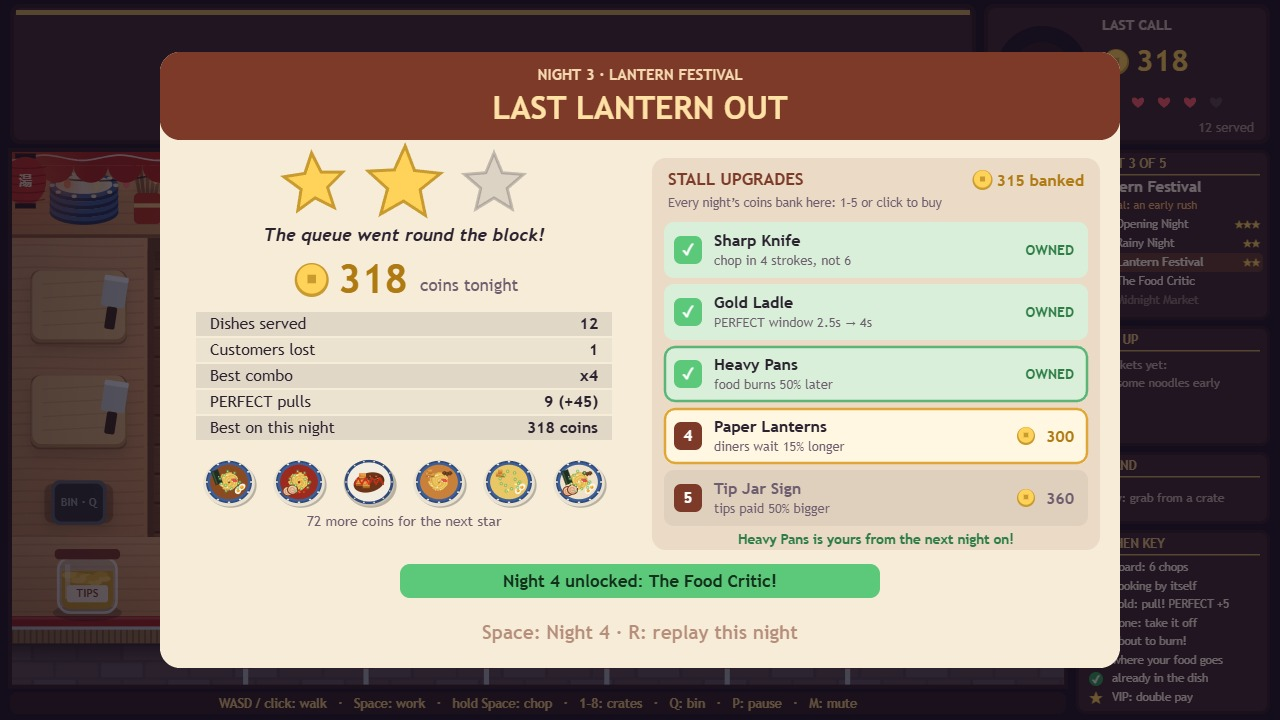
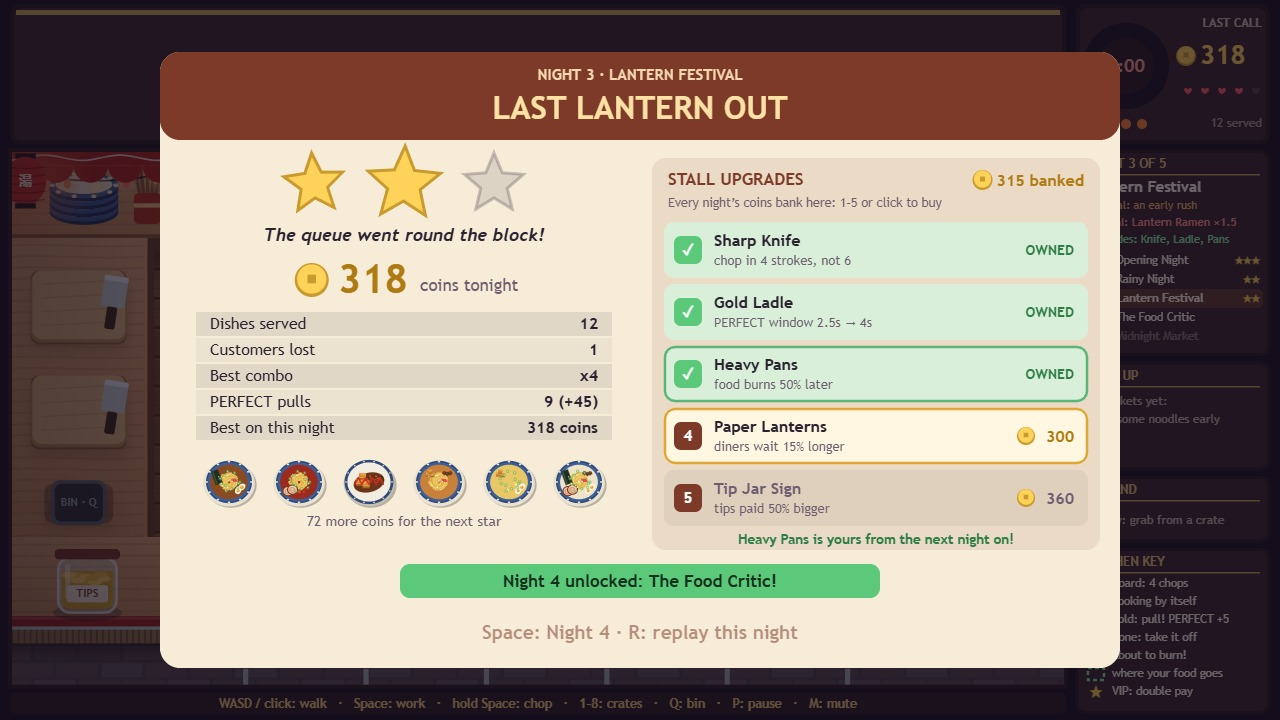
Cover polish and specials: heaped crates, golden stock, more steam, aligned top row, tonight's special, upgrades in the sidebar, livelier diners

diff --git a/game/src/render/hud-view.js b/game/src/render/hud-view.js
@@ -2,11 +2,11 @@
 // ingredients and a patience bar that turns from green to red), the shift clock, the takings,
 // the hearts and the combo.
 import { FONT, PALETTE, SHIFT } from '../config.js';
-import { PHASES, phaseIndex, secondsLeft, shiftProgress } from '../shift.js';
+import { PHASES, phaseIndex, priceOf, secondsLeft, shiftProgress } from '../shift.js';
 import { drawDish, drawIngredientIcon } from './food-art.js';
 
 const TAU = Math.PI * 2;
-export const TICKET = { width: 178, height: 128, gap: 10, left: 24, top: 10 };
+export const TICKET = { width: 196, height: 128, gap: 10, left: 24, top: 10 };
 
 function text(ctx, value, x, y, size, colour, align = 'center', weight = 'bold') {
   ctx.font = `${weight} ${size}px ${FONT}`;
@@ -97,7 +97,16 @@ function drawTicket(ctx, ticket, x, y, time, have) {
   roundRect(ctx, 8, TICKET.height - 20, TICKET.width - 16, 12, 6, 'rgba(43,34,48,0.18)');
   roundRect(ctx, 8, TICKET.height - 20, Math.max(6, (TICKET.width - 16) * fraction), 12, 6, patienceColour(fraction));
   text(ctx, `${Math.ceil(ticket.left)}s`, TICKET.width - 12, TICKET.height - 33, 12, urgent ? PALETTE.bad : PALETTE.inkSoft, 'right');
-  text(ctx, `${ticket.recipe.price * (ticket.vip ? 2 : 1)}c`, 12, TICKET.height - 33, 12, ticket.vip ? '#b8860b' : PALETTE.inkSoft, 'left');
+  text(ctx, `${priceOf(ticket)}c`, 12, TICKET.height - 33, 12, ticket.vip || ticket.special ? '#b8860b' : PALETTE.inkSoft, 'left');
+  if (ticket.special) {
+    // Tonight's special: a red ribbon across the corner.
+    ctx.save();
+    ctx.translate(TICKET.width - 22, 40);
+    ctx.rotate(0.5);
+    roundRect(ctx, -34, -9, 68, 18, 3, '#c9372f');
+    text(ctx, 'SPECIAL', 0, 1, 11, '#fff3d6');
+    ctx.restore();
+  }
   if (ticket.leaving > 0) {
     ctx.save();
     ctx.translate(TICKET.width / 2, 70);
@@ -115,15 +124,15 @@ function drawTicket(ctx, ticket, x, y, time, have) {
 
 /** The rail and its tickets; `progress` maps a ticket id to the ingredients already in its dish. */
 export function drawOrderBoard(ctx, orders, time, progress) {
-  roundRect(ctx, 10, 4, 966, 140, 10, '#2b1d22');
-  roundRect(ctx, 14, 8, 958, 132, 8, '#3a272d');
+  roundRect(ctx, 10, 4, 1056, 140, 10, '#2b1d22');
+  roundRect(ctx, 14, 8, 1048, 132, 8, '#3a272d');
   ctx.fillStyle = '#c8a95a';
-  ctx.fillRect(16, 10, 954, 5);
-  if (orders.tickets.length === 0) text(ctx, 'Waiting for the first customers…', 492, 76, 18, 'rgba(255,240,220,0.5)', 'center', 'normal');
+  ctx.fillRect(16, 10, 1044, 5);
+  if (orders.tickets.length === 0) text(ctx, 'Waiting for the first customers…', 538, 76, 18, 'rgba(255,240,220,0.5)', 'center', 'normal');
   // Tickets stay on the board: one sliding in or out never spills over the service panel.
   ctx.save();
   ctx.beginPath();
-  ctx.rect(14, 0, 958, 144);
+  ctx.rect(14, 0, 1048, 144);
   ctx.clip();
   orders.tickets.forEach((ticket, index) => {
     const slot = ticketSlot(index);
@@ -156,45 +165,45 @@ export function drawCoin(ctx, x, y, r) {
 
 /** The clock, phase, takings, hearts and combo on the panel to the right of the order board. */
 export function drawServicePanel(ctx, shift, time, coinPulse) {
-  roundRect(ctx, 984, 4, 286, 140, 10, '#2b1d22');
-  roundRect(ctx, 988, 8, 278, 132, 8, '#3a272d');
+  roundRect(ctx, 1076, 4, 194, 140, 10, '#2b1d22');
+  roundRect(ctx, 1080, 8, 186, 132, 8, '#3a272d');
   // The dial: a lantern-moon that empties as the night runs out.
-  const cx = 1042;
-  const cy = 72;
+  const cx = 1126;
+  const cy = 66;
   const left = 1 - shiftProgress(shift);
   const lowTime = secondsLeft(shift) <= 30;
   ctx.beginPath();
-  ctx.arc(cx, cy, 46, 0, TAU);
+  ctx.arc(cx, cy, 43, 0, TAU);
   ctx.fillStyle = '#1b1426';
   ctx.fill();
   ctx.beginPath();
   ctx.moveTo(cx, cy);
-  ctx.arc(cx, cy, 42, -Math.PI / 2, -Math.PI / 2 + TAU * left);
+  ctx.arc(cx, cy, 39, -Math.PI / 2, -Math.PI / 2 + TAU * left);
   ctx.closePath();
   ctx.fillStyle = lowTime && Math.floor(time * 4) % 2 ? PALETTE.bad : PALETTE.lantern;
   ctx.fill();
   ctx.beginPath();
-  ctx.arc(cx, cy, 30, 0, TAU);
+  ctx.arc(cx, cy, 28, 0, TAU);
   ctx.fillStyle = '#2b1d22';
   ctx.fill();
   const seconds = Math.ceil(secondsLeft(shift));
-  text(ctx, `${Math.floor(seconds / 60)}:${String(seconds % 60).padStart(2, '0')}`, cx, cy + 1, 20, lowTime ? '#ff9b8f' : PALETTE.text);
+  text(ctx, `${Math.floor(seconds / 60)}:${String(seconds % 60).padStart(2, '0')}`, cx, cy + 1, 18, lowTime ? '#ff9b8f' : PALETTE.text);
   // Phase pips under the dial.
   PHASES.forEach((phase, i) => {
     ctx.beginPath();
-    ctx.arc(cx - 16 + i * 16, cy + 56, 5, 0, TAU);
+    ctx.arc(cx - 16 + i * 16, cy + 58, 5, 0, TAU);
     ctx.fillStyle = i <= phaseIndex(shift) ? PALETTE.lantern : 'rgba(255,255,255,0.15)';
     ctx.fill();
   });
   const phase = PHASES[phaseIndex(shift)].name;
-  text(ctx, phase.toUpperCase(), 1102, 26, 14, phaseIndex(shift) === 1 ? '#ffb070' : 'rgba(255,240,220,0.75)', 'left');
+  text(ctx, phase.toUpperCase(), 1262, 24, 12, phaseIndex(shift) === 1 ? '#ffb070' : 'rgba(255,240,220,0.75)', 'right');
   // Takings.
   const pulse = 1 + coinPulse * 0.25;
-  drawCoin(ctx, 1116, 62, 13 * pulse);
-  text(ctx, String(shift.coins), 1136, 63, 30 * pulse, PALETTE.coin, 'left');
-  for (let i = 0; i < SHIFT.hearts; i += 1) drawHeart(ctx, 1112 + i * 26, 104, 11, i < shift.hearts);
-  if (shift.combo > 1) text(ctx, `COMBO x${shift.combo}`, 1254, 128, 14, '#8ff0a4', 'right');
-  else text(ctx, `${shift.served} served`, 1254, 128, 13, 'rgba(255,240,220,0.55)', 'right', 'normal');
+  drawCoin(ctx, 1186, 56, 10 * pulse);
+  text(ctx, String(shift.coins), 1200, 57, 26 * pulse, PALETTE.coin, 'left');
+  for (let i = 0; i < SHIFT.hearts; i += 1) drawHeart(ctx, 1188 + i * 17, 92, 7, i < shift.hearts);
+  if (shift.combo > 1) text(ctx, `COMBO x${shift.combo}`, 1262, 124, 13, '#8ff0a4', 'right');
+  else text(ctx, `${shift.served} served`, 1262, 124, 12, 'rgba(255,240,220,0.55)', 'right', 'normal');
 }
 
 /** Big centred banners: the phase changes, the last thirty seconds. */

diff --git a/game/src/render/sidebar-view.js b/game/src/render/sidebar-view.js
@@ -4,8 +4,8 @@
 import { FONT, PALETTE, SCORE } from '../config.js';
 import { NIGHTS, twistLine } from '../nights.js';
 import { heldTag, nextUp, prepWords } from '../hints.js';
-import { INGREDIENTS } from '../recipes.js';
-import { chopStrokes } from '../perks.js';
+import { INGREDIENTS, RECIPE_BY_ID } from '../recipes.js';
+import { chopStrokes, PERKS } from '../perks.js';
 import { drawDish, drawIngredient, drawIngredientIcon } from './food-art.js';
 import { SIDEBAR } from './layout.js';
 
@@ -39,10 +39,13 @@ function panel(ctx, y, h, title) {
 
 function drawNights(ctx, shift, progress) {
   const { x, w } = SIDEBAR;
-  let y = panel(ctx, SIDEBAR.y, 170, `NIGHT ${shift.night.id} OF ${NIGHTS.length}`);
+  let y = panel(ctx, SIDEBAR.y, 206, `NIGHT ${shift.night.id} OF ${NIGHTS.length}`);
   text(ctx, shift.night.name, x + 12, y + 6, 15, PALETTE.text);
   text(ctx, twistLine(shift.night), x + 12, y + 24, 11, '#ffb36b', 'left', 'normal');
-  y += 42;
+  text(ctx, `Special: ${RECIPE_BY_ID[shift.night.special].name} ×1.5`, x + 12, y + 41, 11, '#ff8f84', 'left');
+  const owned = PERKS.filter((perk) => (progress.perks ?? []).includes(perk.id)).map((perk) => perk.name.split(' ').pop());
+  text(ctx, owned.length > 0 ? `Upgrades: ${owned.join(', ')}` : 'Upgrades: none yet', x + 12, y + 58, 11, owned.length > 0 ? '#8ff0a4' : 'rgba(255,240,220,0.45)', 'left', 'normal');
+  y += 78;
   for (const night of NIGHTS) {
     const current = night.id === shift.night.id;
     const done = (progress.stars[night.id] ?? 0) > 0;
@@ -60,7 +63,7 @@ function drawNights(ctx, shift, progress) {
 /** The most urgent ticket, and each thing its dish still needs with how to prep it. */
 function drawNextUp(ctx, world) {
   const { x, w } = SIDEBAR;
-  let y = panel(ctx, SIDEBAR.y + 176, 120, 'NEXT UP');
+  let y = panel(ctx, SIDEBAR.y + 212, 108, 'NEXT UP');
   const next = nextUp(world);
   if (next === null) {
     text(ctx, 'No tickets yet:', x + 12, y + 8, 12, 'rgba(255,240,220,0.7)', 'left', 'normal');
@@ -86,7 +89,7 @@ function drawNextUp(ctx, world) {
 /** What the chef carries, and what it needs next (or which dish it is on its way to be). */
 function drawHands(ctx, world) {
   const { x } = SIDEBAR;
-  const y = panel(ctx, SIDEBAR.y + 302, 72, 'IN HAND') + 15;
+  const y = panel(ctx, SIDEBAR.y + 326, 66, 'IN HAND') + 13;
   const held = world.chef.held;
   if (held === null) {
     text(ctx, 'Empty: grab from a crate', x + 12, y, 12, 'rgba(255,240,220,0.7)', 'left', 'normal');
@@ -133,7 +136,7 @@ function keyIcon(ctx, kind, x, y) {
 
 function drawKey(ctx) {
   const { x } = SIDEBAR;
-  let y = panel(ctx, SIDEBAR.y + 380, SIDEBAR.h - 380, 'KITCHEN KEY') + 2;
+  let y = panel(ctx, SIDEBAR.y + 398, SIDEBAR.h - 398, 'KITCHEN KEY');
   const rows = [
     ['pips', `board: ${chopStrokes()} chops`],
     ['ring', 'cooking by itself'],
@@ -141,13 +144,12 @@ function drawKey(ctx) {
     ['amber', 'done: take it off'],
     ['red', 'about to burn!'],
     ['dash', 'where your food goes'],
-    ['check', 'already in the dish'],
     ['vip', 'VIP: double pay'],
   ];
   for (const [kind, words] of rows) {
     keyIcon(ctx, kind, x + 20, y + 4);
     text(ctx, words, x + 36, y + 4, 11.5, PALETTE.text, 'left', 'normal');
-    y += 18.5;
+    y += 18;
   }
 }
 

diff --git a/game/src/render/kitchen-view.js b/game/src/render/kitchen-view.js
@@ -243,9 +243,15 @@ function drawCrate(ctx, s, time) {
     roundRect(ctx, s.x + 4, s.y + 4, s.w - 8, s.h - 8, 6, '#7b4f2c');
     roundRect(ctx, s.x + 9, s.y + 9, s.w - 18, s.h - 18, 4, '#4d2f1a');
     const raw = { kind: s.kind, done: 0, burnt: false };
-    drawIngredient(ctx, raw, s.cx - 16, s.cy - 2, 44);
-    drawIngredient(ctx, raw, s.cx + 16, s.cy + 4, 44);
-    drawIngredient(ctx, raw, s.cx, s.cy - 10, 44);
+    // Heaped full: a back row and a front row, the front a touch bigger.
+    for (const [dx, dy, size] of [[-24, -12, 42], [0, -14, 42], [24, -12, 42], [-14, 2, 48], [14, 4, 48]]) {
+      drawIngredient(ctx, raw, s.cx + dx, s.cy + dy, size);
+    }
+    const shine = ctx.createLinearGradient(0, s.y + 9, 0, s.y + 40);
+    shine.addColorStop(0, 'rgba(255,240,210,0.22)');
+    shine.addColorStop(1, 'rgba(255,240,210,0)');
+    ctx.fillStyle = shine;
+    ctx.fillRect(s.x + 9, s.y + 9, s.w - 18, 31);
     ctx.fillStyle = '#9a6a3e';
     ctx.fillRect(s.x + 4, s.y + s.h - 16, s.w - 8, 8);
   }
@@ -324,7 +330,15 @@ function drawCooker(ctx, s, time) {
     ctx.fill();
     ctx.beginPath();
     ctx.arc(s.cx, s.cy, 31, 0, TAU);
-    ctx.fillStyle = s.item !== null && s.item.burnt ? '#5d5a4a' : '#7fa7b8';
+    // Stock at a rolling boil: golden and glowing at the middle (grey once something burns in it).
+    if (s.item !== null && s.item.burnt) ctx.fillStyle = '#5d5a4a';
+    else {
+      const stock = ctx.createRadialGradient(s.cx - 6, s.cy - 6, 4, s.cx, s.cy, 31);
+      stock.addColorStop(0, s.item !== null ? '#ffd889' : '#cfe0e6');
+      stock.addColorStop(0.6, s.item !== null ? '#e3a145' : '#9fbfcc');
+      stock.addColorStop(1, s.item !== null ? '#b8732a' : '#7fa7b8');
+      ctx.fillStyle = stock;
+    }
     ctx.fill();
     roundRect(ctx, s.cx + 34, s.cy - 5, 26, 10, 4, '#3b2a20');
     if (s.item !== null) {
@@ -337,7 +351,8 @@ function drawCooker(ctx, s, time) {
         ctx.stroke();
       }
       drawIngredient(ctx, s.item, s.cx, s.cy, 46, time);
-      drawSteam(ctx, s.cx, s.cy - 16, 20, time + s.cy);
+      drawSteam(ctx, s.cx, s.cy - 16, 26, time + s.cy);
+      drawSteam(ctx, s.cx + 14, s.cy - 10, 18, time * 1.3 + s.cy + 2);
     }
   } else {
     roundRect(ctx, s.x + 8, s.y + 6, s.w - 16, s.h - 12, 8, '#1f1d1f');

diff --git a/game/src/shots.js b/game/src/shots.js
@@ -72,6 +72,7 @@ function startCooking(world, kind, id, seconds, before = []) {
 /** Clip a ticket with `fraction` of its patience left. */
 function ticket(world, id, fraction, vip = false) {
   const t = addTicket(world.orders, RECIPE_BY_ID[id], patienceScale(world.shift), vip);
+  t.special = id === world.shift.night.special;
   t.left = t.patience * fraction;
   t.age = 3;
   return t;
@@ -127,7 +128,7 @@ function stageService(world, fx) {
     p.x += p.vx * 0.12;
     p.y += p.vy * 0.12;
   }
-  return { screen: SCREEN_PLAY, time: 12.3, servedDishes: [], progress: MIDWAY };
+  return { screen: SCREEN_PLAY, time: 12.3, servedDishes: [], progress: { ...MIDWAY, perks: ['ladle', 'pans'] } };
 }
 
 /** Last Call on Midnight Market: big orders, a pot about to boil over, a Midnight Feast run to the pass. */
@@ -156,9 +157,22 @@ function stageLastCall(world, fx) {
   ticket(world, 'feast', 0.22);
   ticket(world, 'moon', 0.41);
   ticket(world, 'grove', 0.63);
-  ticket(world, 'ember', 0.8);
+  // An Ember Noodles just went out: its ticket lifts away and its diner beams.
+  const served = ticket(world, 'ember', 0.8);
+  served.served = true;
+  served.leaving = 0.25;
   ticket(world, 'feast', 0.97);
-  return { screen: SCREEN_PLAY, time: 31.7, servedDishes: [], progress: { unlocked: 5, best: { ...MIDWAY.best, 4: 342 }, stars: { ...MIDWAY.stars, 4: 2 } } };
+  world.events.push({ type: 'serve', x: 948, y: 650, earned: 61, tip: 13, bonus: 16, combo: 5, contents: RECIPE_BY_ID.ember.items });
+  applyEvents(fx, world.events, world.orders);
+  world.events.length = 0;
+  fx.floaters.forEach((f) => { f.age = 0.3; });
+  for (const p of fx.particles) {
+    p.age = 0.15;
+    p.x += p.vx * 0.15;
+    p.y += p.vy * 0.15;
+  }
+  const progress = { unlocked: 5, best: { ...MIDWAY.best, 4: 342 }, stars: { ...MIDWAY.stars, 4: 2 }, perks: ['knife', 'ladle', 'pans'] };
+  return { screen: SCREEN_PLAY, time: 31.7, servedDishes: [], progress };
 }
 
 /** The end of the Lantern Festival: a strong two-star night that opens the critic's night. */

diff --git a/game/src/nights.js b/game/src/nights.js
@@ -10,27 +10,27 @@ export const NIGHTS = [
   {
     id: 1, name: 'Opening Night', blurb: 'Two dishes, a gentle crowd: learn the stall.',
     seconds: 180, menu: ['lantern', 'ember'], late: [], lateAt: 1,
-    spawnStart: 30, spawnEnd: 19, patience: 1.3, twist: null, stars: [90, 210, 320],
+    spawnStart: 30, spawnEnd: 19, patience: 1.3, special: 'ember', twist: null, stars: [90, 210, 320],
   },
   {
     id: 2, name: 'Rainy Night', blurb: 'Fewer customers, but they all want soup.',
     seconds: 200, menu: ['lantern', 'grove', 'moon'], late: ['ember'], lateAt: 0.5,
-    spawnStart: 30, spawnEnd: 18, patience: 1.45, twist: TWIST_RAIN, stars: [110, 250, 370],
+    spawnStart: 30, spawnEnd: 18, patience: 1.45, special: 'grove', twist: TWIST_RAIN, stars: [110, 250, 370],
   },
   {
     id: 3, name: 'Lantern Festival', blurb: 'The street fills up: a long, loud rush.',
     seconds: 240, menu: ['lantern', 'ember', 'grove'], late: ['griddle', 'moon'], lateAt: 0.3,
-    spawnStart: 25, spawnEnd: 11.5, patience: 1.12, twist: TWIST_FESTIVAL, stars: [120, 260, 390],
+    spawnStart: 25, spawnEnd: 11.5, patience: 1.12, special: 'lantern', twist: TWIST_FESTIVAL, stars: [120, 260, 390],
   },
   {
     id: 4, name: 'The Food Critic', blurb: 'Gold VIP tickets pay double, and wait half as long.',
     seconds: 240, menu: ['lantern', 'ember', 'grove', 'griddle'], late: ['moon', 'feast'], lateAt: 0.45,
-    spawnStart: 26, spawnEnd: 12.5, patience: 1.15, twist: TWIST_CRITIC, stars: [130, 300, 440],
+    spawnStart: 26, spawnEnd: 12.5, patience: 1.15, special: 'griddle', twist: TWIST_CRITIC, stars: [130, 300, 440],
   },
   {
     id: 5, name: 'Midnight Market', blurb: 'Every dish, the fastest crowd. Good luck.',
     seconds: 240, menu: ['lantern', 'ember', 'grove', 'griddle', 'moon'], late: ['feast'], lateAt: 0.25,
-    spawnStart: 21, spawnEnd: 10, patience: 1.02, twist: null, stars: [130, 270, 400],
+    spawnStart: 21, spawnEnd: 10, patience: 1.02, special: 'feast', twist: null, stars: [130, 270, 400],
   },
 ];
 

diff --git a/game/src/render/customers-view.js b/game/src/render/customers-view.js
@@ -106,10 +106,32 @@ function drawDiner(ctx, x, ticket, mood, t, time) {
     const puff = (time * 1.5 + id) % 1;
     ellipse(ctx, -10, -40 - puff * 16, 5 + puff * 4, 4 + puff * 3, `rgba(255,255,255,${0.5 * (1 - puff)})`);
   } else if (mood === 'happy') {
-    ctx.font = 'bold 20px sans-serif';
+    // A big heart that pops up and floats, and a sparkle either side.
+    const rise = Math.min(1, t * 2);
+    ctx.font = `bold ${Math.round(18 + 16 * rise)}px sans-serif`;
     ctx.textAlign = 'center';
-    ctx.fillStyle = '#ff7a8a';
-    ctx.fillText('♥', 16, -40 - (time * 30 % 10));
+    ctx.lineWidth = 4;
+    ctx.strokeStyle = 'rgba(60,20,30,0.6)';
+    ctx.strokeText('♥', -30, -14 - rise * 8);
+    ctx.fillStyle = '#ff5f7a';
+    ctx.fillText('♥', -30, -14 - rise * 8);
+    ctx.fillStyle = '#ffe9a8';
+    ctx.font = 'bold 14px sans-serif';
+    ctx.fillText('✦', -52, -24 - rise * 6);
+    ctx.fillText('✦', -10, -30 - rise * 8);
+  } else if (mood === 'leaving') {
+    // A storm cloud over a diner who gave up.
+    ellipse(ctx, 34, -30, 16, 9, 'rgba(70,70,84,0.9)');
+    ellipse(ctx, 25, -26, 10, 7, 'rgba(70,70,84,0.9)');
+    ellipse(ctx, 44, -26, 10, 7, 'rgba(70,70,84,0.9)');
+    ctx.strokeStyle = '#ffd25a';
+    ctx.lineWidth = 2.5;
+    ctx.beginPath();
+    ctx.moveTo(36, -21);
+    ctx.lineTo(30, -12);
+    ctx.lineTo(37, -12);
+    ctx.lineTo(31, -3);
+    ctx.stroke();
   }
   ctx.restore();
 }

diff --git a/game/src/shift.js b/game/src/shift.js
@@ -94,13 +94,18 @@ export function rollVip(shift, random) {
   return shift.night.twist === TWIST_CRITIC && shift.time > 20 && random() < 0.22;
 }
 
+/** A ticket's price: doubled for a VIP, half again for tonight's special. */
+export function priceOf(ticket) {
+  return Math.round(ticket.recipe.price * (ticket.vip ? 2 : 1) * (ticket.special ? 1.5 : 1));
+}
+
 /** Pay for a served ticket: price (doubled for a VIP), a tip for speed and the combo bonus. */
 export function payForServe(shift, ticket) {
   const freshness = ticket.left / ticket.patience;
   if (freshness >= 0.5) shift.combo = Math.min(SCORE.comboCap, shift.combo + 1);
   else shift.combo = 0;
   shift.bestCombo = Math.max(shift.bestCombo, shift.combo);
-  const price = ticket.recipe.price * (ticket.vip ? 2 : 1);
+  const price = priceOf(ticket);
   const tip = Math.round(price * tipShare() * freshness);
   const bonus = shift.combo > 1 ? (shift.combo - 1) * SCORE.comboBonus : 0;
   const earned = price + tip + bonus;

diff --git a/game/src/world.js b/game/src/world.js
@@ -106,6 +106,7 @@ export function createWorld(random, nightId = 1) {
         const recipe = chooseRecipe(shift, world.random, world.lastRecipe);
         world.lastRecipe = recipe.id;
         const ticket = addTicket(world.orders, recipe, patienceScale(shift), rollVip(shift, world.random));
+        ticket.special = recipe.id === shift.night.special;
         world.events.push({ type: 'ticket', ticket: ticket.id, recipe: recipe.id, vip: ticket.vip, x: 0, y: 0 });
       }
       shift.nextTicket = ticketInterval(shift) * (0.85 + world.random() * 0.3);

diff --git a/game/src/main.js b/game/src/main.js
@@ -73,6 +73,8 @@ function nightCardAt(x, y) {
 
 function runShot(name) {
   const scene = stageShot(name, world, fx);
+  // The scene is staged by the base rules; it is drawn with the upgrades its campaign owns.
+  usePerks(scene.progress?.perks ?? []);
   let painted = 0;
   function paint() {
     renderer.draw(world, scene.screen, { fx, time: scene.time, hover: null, servedDishes: scene.servedDishes, hints: true, progress: scene.progress, selected: scene.selected, outcome: scene.outcome });

diff --git a/README.md b/README.md
@@ -23,6 +23,7 @@ Tickets clip onto the order board, and each one is a dish with a patience bar. T
   - a strip under the kitchen keeps the controls in view;
   - stations where your food can go are outlined;
   - dishes on the mats show their progress ("Lantern Ramen 3/4", "READY").
+- **Tonight's special**: one dish each night pays half again, marked with a red ribbon on its ticket.
 - **Stall upgrades**: every night's coins go into the bank, and the results card sells five lasting upgrades (Sharp Knife, Gold Ladle, Heavy Pans, Paper Lanterns, Tip Jar Sign).
 - **Tips for speed and combos for streaks**. You get five hearts, and a customer who walks out costs one. Each night has its own stars and best score.
 
